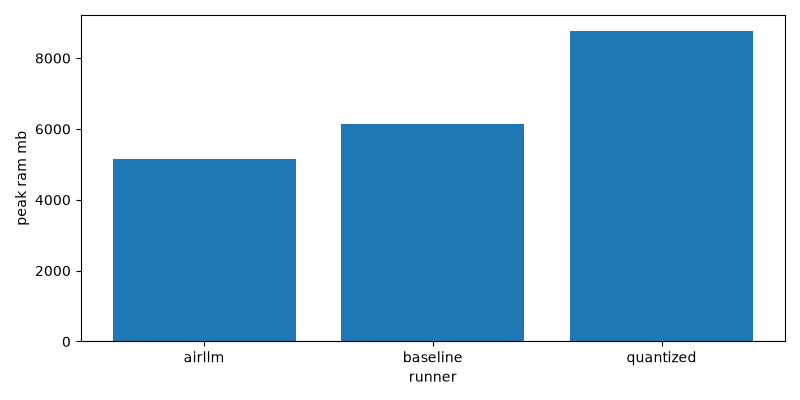
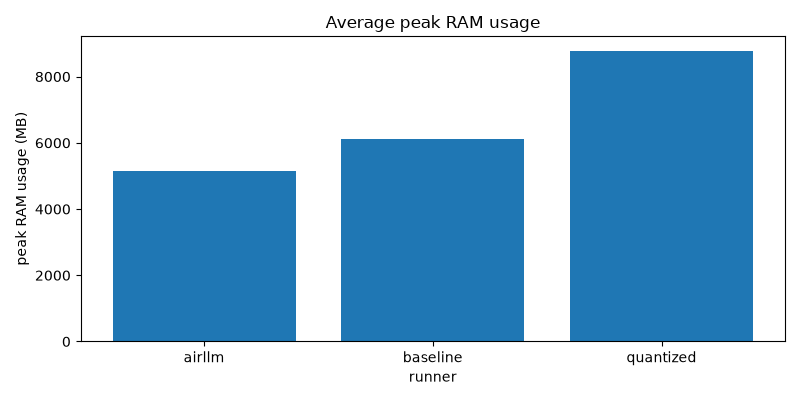
Clarify memory metric wording

diff --git a/src/airllm_ex05/report.py b/src/airllm_ex05/report.py
@@ -80,7 +80,7 @@ quantized run to bitsandbytes 8-bit loading with CPU offload.
 
 The final hardware snapshot is stored in `results/raw/hardware.json`. The observed machine is a
 Windows 11 laptop with 4 physical CPU cores, 8 logical CPU cores, 15.70 GiB RAM, and an NVIDIA
-GeForce RTX 3050 Laptop GPU with 4.0 GiB CUDA-visible VRAM.
+GeForce RTX 3050 Laptop GPU with 4.0 GiB dedicated VRAM visible to CUDA.
 
 ## Measurements
 
@@ -100,7 +100,7 @@ Comparison tables are generated under `results/processed/`; plots are generated 
 The baseline runner uses `AutoTokenizer` and `AutoModelForCausalLM` with `device: auto`. In the
 current evidence both baseline prompts succeeded. Model load took about 16.64 seconds, prompt
 latency was about 210.26 to 216.45 seconds, throughput was about 0.10 to 0.14 output tokens per
-second, and CUDA peak allocation was about 4.0 GiB.
+second, and the CUDA/offload runtime memory metric was about 4.0 GiB.
 
 ## AirLLM Run
 
@@ -118,7 +118,19 @@ The quantized runner supports `bitsandbytes`-style low-bit loading where availab
 bitsandbytes 8-bit loading with fp32 CPU offload because dynamic-int8 conversion was too large
 for local RAM. In the current evidence both quantized prompts succeeded. Load time was about
 54.82 seconds, prompt latency was about 74.73 to 112.09 seconds, throughput was about 0.20 to
-0.40 output tokens per second, and CUDA peak allocation was about 8.32 GiB with CPU offload.
+0.40 output tokens per second, and the CUDA/offload runtime memory metric was about 8.32 GiB.
+This does not mean the quantized model fit inside dedicated GPU memory: the physical RTX 3050
+Laptop GPU has 4.0 GiB dedicated VRAM, and bitsandbytes with Accelerate CPU offload can move
+model/state through host RAM and offload paths.
+
+## Memory Notes
+
+The report separates physical hardware capacity, measured host RAM usage, and the benchmark's
+CUDA/offload memory metric. The CUDA/offload memory column is a runner-level memory indicator
+gathered from the execution stack. For the bitsandbytes CPU-offload run, it should not be
+interpreted as pure dedicated VRAM residency, because the physical GPU has only 4 GB dedicated
+VRAM. Its exact composition is backend-dependent, so the safest reading is measured runtime memory
+pressure across CUDA/offload execution rather than physical GPU residency.
 
 ## Prefill, Decode, TTFT, and TPOT
 

diff --git a/src/airllm_ex05/plotting.py b/src/airllm_ex05/plotting.py
@@ -11,6 +11,20 @@ import matplotlib.pyplot as plt
 from airllm_ex05.cost_analysis import CostPoint
 from airllm_ex05.models import BenchmarkResult
 
+METRIC_LABELS = {
+    "peak_ram_mb": "peak RAM usage (MB)",
+    "peak_vram_mb": "CUDA/offload memory metric (MB)",
+    "tokens_per_second": "output tokens per second",
+    "total_latency_seconds": "total latency (seconds)",
+}
+
+METRIC_TITLES = {
+    "peak_ram_mb": "Average peak RAM usage",
+    "peak_vram_mb": "Average CUDA/offload memory metric",
+    "tokens_per_second": "Average throughput",
+    "total_latency_seconds": "Average latency",
+}
+
 
 def plot_metric(results: list[BenchmarkResult], metric_name: str, output_path: Path) -> Path | None:
     """Create a bar chart for a benchmark metric."""
@@ -30,7 +44,8 @@ def plot_metric(results: list[BenchmarkResult], metric_name: str, output_path: P
     output_path.parent.mkdir(parents=True, exist_ok=True)
     plt.figure(figsize=(8, 4))
     plt.bar(labels, values)
-    plt.ylabel(metric_name.replace("_", " "))
+    plt.title(METRIC_TITLES.get(metric_name, metric_name.replace("_", " ")))
+    plt.ylabel(METRIC_LABELS.get(metric_name, metric_name.replace("_", " ")))
     plt.xlabel("runner")
     plt.tight_layout()
     plt.savefig(output_path)

diff --git a/README.md b/README.md
@@ -14,8 +14,8 @@ This repository implements a reproducible local LLM experiment for three executi
 
 The repository is configured and documented for the final 7B stress run with
 `Qwen/Qwen2.5-7B-Instruct` on a constrained Windows laptop with 15.70 GiB RAM and an
-NVIDIA GeForce RTX 3050 Laptop GPU with 4.0 GiB VRAM visible to CUDA. The experiment uses two
-prompts, one run per prompt, and `max_new_tokens: 16`.
+NVIDIA GeForce RTX 3050 Laptop GPU with 4.0 GiB dedicated VRAM visible to CUDA. The experiment
+uses two prompts, one run per prompt, and `max_new_tokens: 16`.
 
 Current 7B result:
 
@@ -34,6 +34,11 @@ The strongest performance result is the quantized runner: it produced the highes
 and lowest latency in the final 7B run. AirLLM is valuable as a paging-style demonstration, but
 on this machine it is slower than direct Transformers inference because layer movement and disk
 I/O dominate the short generation workload.
+
+Memory note: the committed CUDA/offload memory values are runner-level memory indicators gathered
+from the execution stack. For the bitsandbytes CPU-offload run, the 8.32 GiB value should not be
+interpreted as pure dedicated VRAM residency, because the physical GPU has only 4 GB dedicated
+VRAM.
 
 ## Hardware And Model Choice
 
@@ -54,7 +59,7 @@ Final observed hardware:
 | Logical cores | 8 |
 | RAM | 15.70 GiB |
 | GPU | NVIDIA GeForce RTX 3050 Laptop GPU |
-| VRAM | 4.0 GiB |
+| Dedicated GPU VRAM | 4.0 GiB |
 | CUDA available | true |
 | Storage | NTFS/FAT32 local partitions, about 932.68 GB each |
 
@@ -147,7 +152,7 @@ Processed evidence from `results/processed/comparison_table.csv`.
 Current committed values should be regenerated from `results/processed/comparison_table.csv`
 and the figures under `results/figures/` after each fresh 7B workflow run.
 
-| Runner | Status | Prompt | Load s | Latency s | TTFT s | TPOT s/token | Tok/s | Peak RAM MB | Peak VRAM MB |
+| Runner | Status | Prompt | Load s | Latency s | TTFT s | TPOT s/token | Tok/s | Peak RAM MB | CUDA/offload memory MB |
 | --- | --- | ---: | ---: | ---: | ---: | ---: | ---: | ---: | ---: |
 | airllm | success | 0 | 4.31 | 446.69 |  | 20.30 | 0.05 | 6373.56 | 1094.48 |
 | airllm | success | 1 | 4.31 | 443.91 |  | 14.80 | 0.07 | 3943.98 | 1099.13 |
@@ -182,7 +187,7 @@ AirLLM, and quantized metrics from the final 7B run.
 
 ![Throughput comparison](results/figures/throughput.png)
 
-![Peak RAM comparison](results/figures/memory.png)
+![Average peak RAM usage](results/figures/memory.png)
 
 ![Cost curve](results/figures/cost_curve.png)
 
@@ -190,7 +195,7 @@ AirLLM, and quantized metrics from the final 7B run.
 
 The baseline runner uses Transformers `AutoTokenizer` and `AutoModelForCausalLM`. The config
 uses `device: auto`, so Transformers/Accelerate chooses the placement. The result recorded
-about 4.0 GB CUDA peak allocation, which means this baseline was not CPU-only.
+about a 4.0 GB CUDA/offload runtime memory metric, which means this baseline was not CPU-only.
 
 Observed 7B baseline behavior:
 
@@ -252,7 +257,7 @@ Observed quantized behavior:
 - Prompt latency was about 74.73 to 112.09 seconds.
 - Throughput ranged from 0.20 to 0.40 output tokens per second.
 - TTFT ranged from 6.62 to 32.37 seconds.
-- CUDA peak allocation was about 8.32 GiB with Accelerate CPU offload.
+- The CUDA/offload runtime memory metric was about 8.32 GiB with Accelerate CPU offload.
 
 Interpretation:
 
@@ -280,14 +285,22 @@ The project measures:
 The baseline and quantized paths use streaming generation when available, so TTFT is measured
 directly for those rows. AirLLM succeeded, but its current integration does not expose the same
 streaming callback path, so AirLLM TTFT remains unavailable while latency, TPOT, throughput, RAM,
-and VRAM are available.
+and CUDA/offload memory indicators are available.
 
-## Memory And VRAM Analysis
+## Memory And CUDA/Offload Analysis
 
-The final machine has a CUDA-visible RTX 3050 Laptop GPU with 4.0 GiB VRAM. The baseline rows
-record about 4.0 GB CUDA peak allocation. The quantized bitsandbytes rows record about 8.32 GB
-CUDA peak allocation because Accelerate offloads part of the model across CPU/GPU memory rather
-than keeping a simple 4 GiB-only footprint.
+The final machine has a CUDA-visible RTX 3050 Laptop GPU with 4.0 GiB dedicated physical VRAM
+and 15.70 GiB host RAM. The benchmark records host RAM separately from the CUDA/offload runtime
+memory metric in the comparison table. The baseline rows record about a 4.0 GB CUDA/offload
+runtime memory metric. The quantized bitsandbytes rows record about 8.32 GB for that same
+runner-level metric because Accelerate CPU offload can move part of the model/state through CPU
+memory and CUDA/offload paths rather than keeping a simple 4 GiB-only GPU footprint.
+
+The CUDA/offload memory column is a runner-level memory indicator gathered from the execution
+stack. For the bitsandbytes CPU-offload run, it should not be interpreted as pure dedicated VRAM
+residency, because the physical GPU has only 4 GB dedicated VRAM. The exact composition of this
+runtime indicator is backend-dependent, so it is safest to read it as measured execution-stack
+memory pressure rather than as physical GPU residency.
 
 Important limitations:
 
@@ -381,7 +394,7 @@ The project is organized as a Python package under `src/airllm_ex05/`.
 | `config.py` | YAML config parsing, validation, and path resolution |
 | `models.py` | Hardware, metric, and benchmark result schemas |
 | `hardware.py` | OS, CPU, RAM, GPU, CUDA, VRAM, and storage snapshot |
-| `metrics.py` | Token estimates, throughput, TPOT, RAM sampler, CUDA peak memory |
+| `metrics.py` | Token estimates, throughput, TPOT, RAM sampler, CUDA/offload memory metric |
 | `benchmark.py` | JSON/CSV result persistence |
 | `runners/baseline_runner.py` | Direct Transformers inference |
 | `runners/airllm_runner.py` | AirLLM loading, shard path, and generation attempt |
@@ -457,8 +470,8 @@ are captured. Recommended screenshots are listed in the final notes of the submi
 
 This repository satisfies the assignment as an engineering experiment. It documents the
 hardware, chooses and justifies a locally uncomfortable model, runs baseline/AirLLM/quantized
-execution, measures TTFT/TPOT/throughput/latency/RAM/VRAM where available, generates tables and
-graphs, performs an API/local cost comparison, and
+execution, measures TTFT/TPOT/throughput/latency/RAM/CUDA-offload memory where available,
+generates tables and graphs, performs an API/local cost comparison, and
 connects the findings to Prefill, Decode, VRAM, paging, and quantization.
 
 The strongest finding is not that one method is universally best. The actual 7B result is more

diff --git a/docs/REPORT.md b/docs/REPORT.md
@@ -11,7 +11,7 @@ quantized run to bitsandbytes 8-bit loading with CPU offload.
 
 The final hardware snapshot is stored in `results/raw/hardware.json`. The observed machine is a
 Windows 11 laptop with 4 physical CPU cores, 8 logical CPU cores, 15.70 GiB RAM, and an NVIDIA
-GeForce RTX 3050 Laptop GPU with 4.0 GiB CUDA-visible VRAM.
+GeForce RTX 3050 Laptop GPU with 4.0 GiB dedicated VRAM visible to CUDA.
 
 ## Measurements
 
@@ -31,7 +31,7 @@ Comparison tables are generated under `results/processed/`; plots are generated 
 The baseline runner uses `AutoTokenizer` and `AutoModelForCausalLM` with `device: auto`. In the
 current evidence both baseline prompts succeeded. Model load took about 16.64 seconds, prompt
 latency was about 210.26 to 216.45 seconds, throughput was about 0.10 to 0.14 output tokens per
-second, and CUDA peak allocation was about 4.0 GiB.
+second, and the CUDA/offload runtime memory metric was about 4.0 GiB.
 
 ## AirLLM Run
 
@@ -49,7 +49,19 @@ The quantized runner supports `bitsandbytes`-style low-bit loading where availab
 bitsandbytes 8-bit loading with fp32 CPU offload because dynamic-int8 conversion was too large
 for local RAM. In the current evidence both quantized prompts succeeded. Load time was about
 54.82 seconds, prompt latency was about 74.73 to 112.09 seconds, throughput was about 0.20 to
-0.40 output tokens per second, and CUDA peak allocation was about 8.32 GiB with CPU offload.
+0.40 output tokens per second, and the CUDA/offload runtime memory metric was about 8.32 GiB.
+This does not mean the quantized model fit inside dedicated GPU memory: the physical RTX 3050
+Laptop GPU has 4.0 GiB dedicated VRAM, and bitsandbytes with Accelerate CPU offload can move
+model/state through host RAM and offload paths.
+
+## Memory Notes
+
+The report separates physical hardware capacity, measured host RAM usage, and the benchmark's
+CUDA/offload memory metric. The CUDA/offload memory column is a runner-level memory indicator
+gathered from the execution stack. For the bitsandbytes CPU-offload run, it should not be
+interpreted as pure dedicated VRAM residency, because the physical GPU has only 4 GB dedicated
+VRAM. Its exact composition is backend-dependent, so the safest reading is measured runtime memory
+pressure across CUDA/offload execution rather than physical GPU residency.
 
 ## Prefill, Decode, TTFT, and TPOT
 